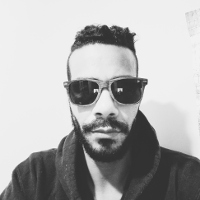
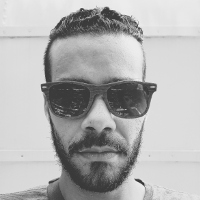
added new team member picture added url to paper wallet changed downloads to wallets

diff --git a/index.html b/index.html
@@ -106,7 +106,7 @@
                         About
                     </a>
                     <a href="#wallets" class="btn btn--stroke">
-                        Downloads
+                        Wallets
                     </a>
                     <a href="https://conceal.cloud" class="btn btn--stroke">
                         Cloud
@@ -815,6 +815,7 @@
             <a href="https://github.com/TheCircleFoundation/conceal-wallet/releases" target="_blank" class="btn btn--stroke">DESKTOP</a> 
             <a href="https://github.com/TheCircleFoundation/conceal-core/releases" target="_blank" class="btn btn--stroke">CLI</a>
             <a href="https://conceal.cloud" target="_blank" class="btn btn--stroke">CLOUD</a> 
+            <a href="https://conceal.network/paperwallet" target="_blank" class="btn btn--stroke">PAPER</a> 
         </center>
 
         </div> <!-- end contact-content -->
